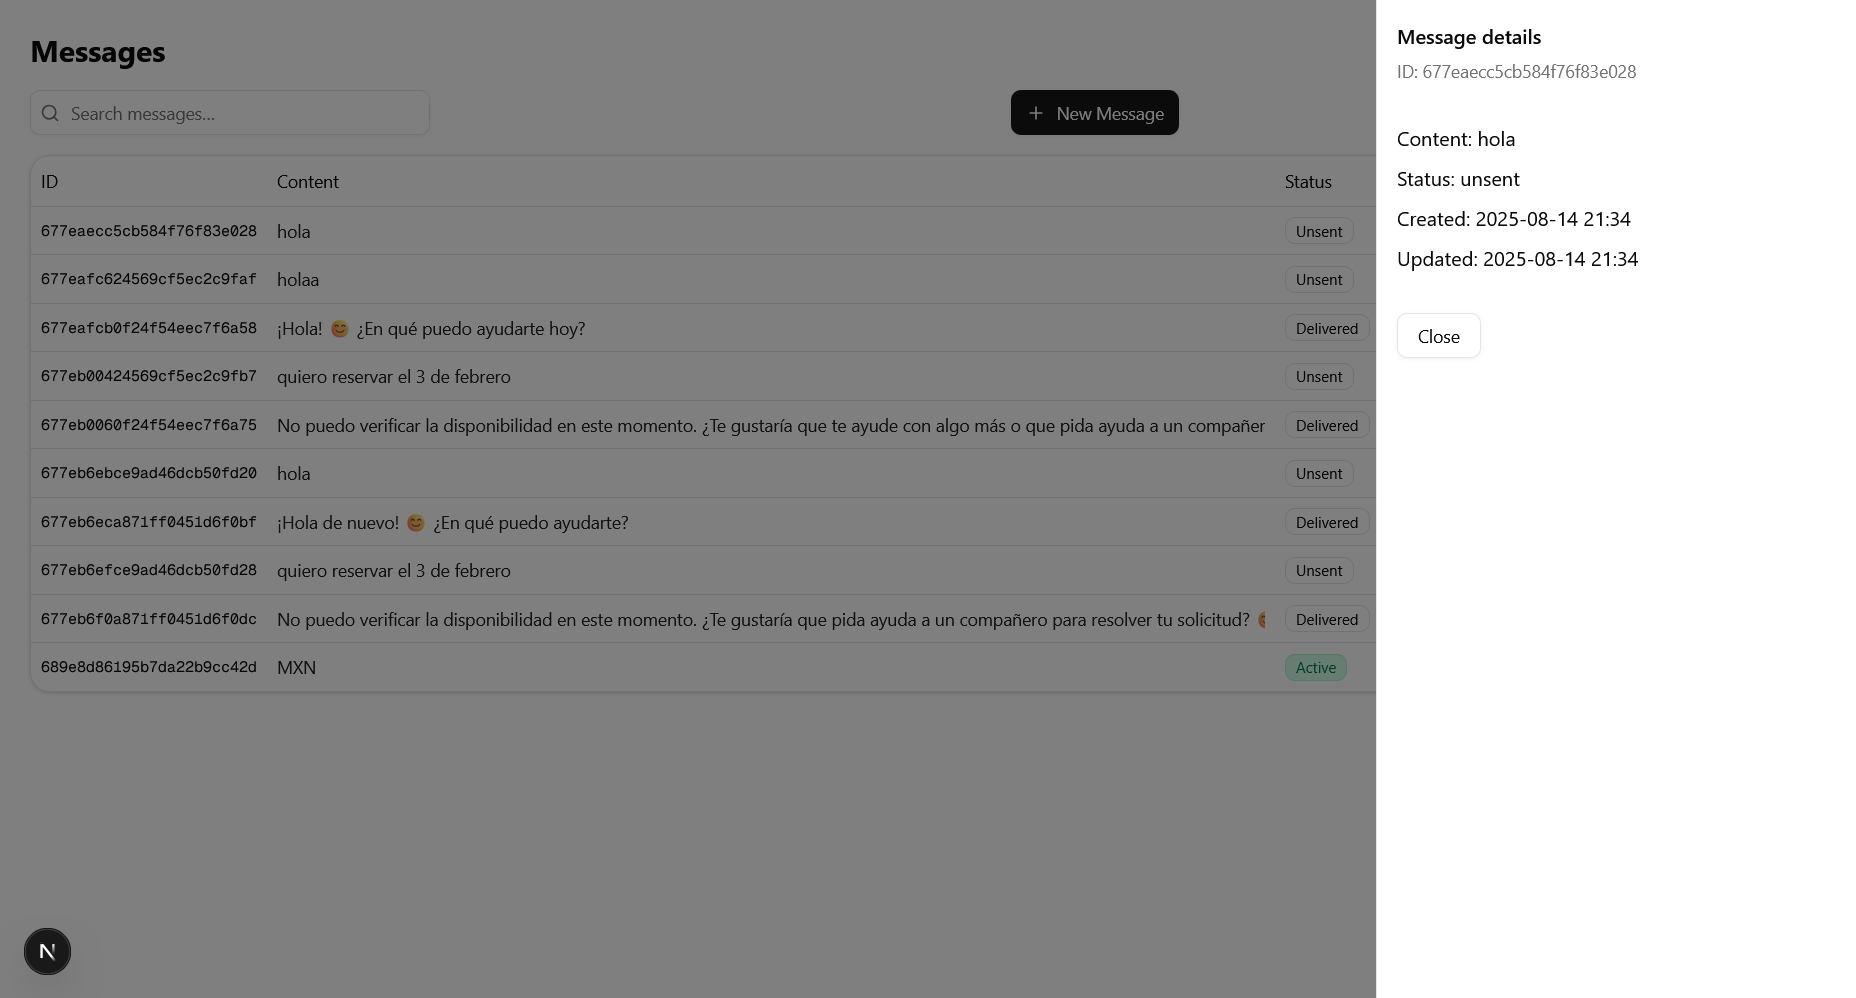
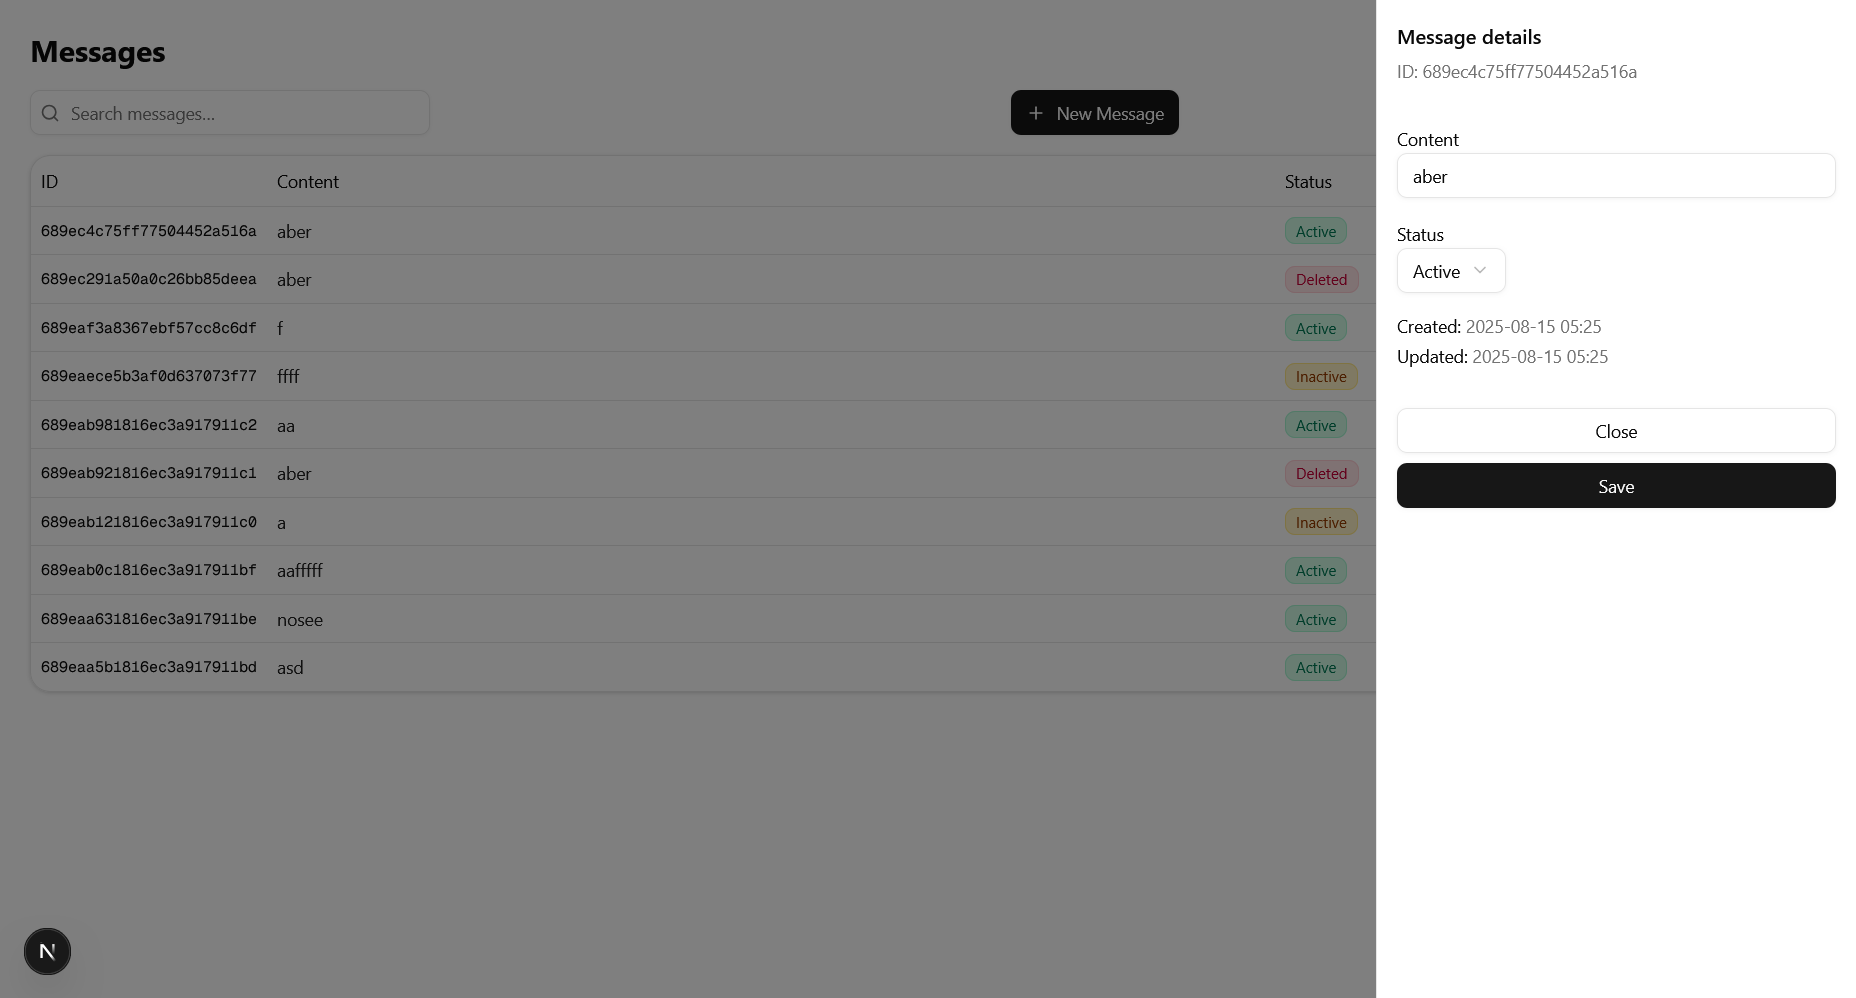
feat: update message drawer

diff --git a/frontend/src/components/messages-table.tsx b/frontend/src/components/messages-table.tsx
@@ -17,9 +17,10 @@ import {
   DrawerTitle
 } from "@/components/ui/drawer";
 import { Input } from "@/components/ui/input";
+import { Select, SelectContent, SelectItem, SelectTrigger, SelectValue } from "@/components/ui/select";
 import { Table, TableBody, TableCell, TableHead, TableHeader, TableRow } from "@/components/ui/table";
-import { createMessage, getMessage } from "@/lib/api";
-import { useQuery, useQueryClient } from "@tanstack/react-query";
+import { createMessage, getMessage, updateMessage } from "@/lib/api";
+import { useMutation, useQuery, useQueryClient } from "@tanstack/react-query";
 import { Loader2, Plus } from "lucide-react";
 
 export type Message = {
@@ -63,9 +64,37 @@ export function MessagesTable({ data, pageSize = 10, onRowClick, onCreate }: Pro
   const [openDetails, setOpenDetails] = useState(false);
   const [openCreate, setOpenCreate] = useState(false);
   const [selected, setSelected] = useState<Message | null>(null);
-  const [content, setContent] = useState("");
-  const [submitting, setSubmitting] = useState(false);
+  const [newContent, setNewContent] = useState("");  const [submitting, setSubmitting] = useState(false);
+  const [editContent, setEditContent] = useState("");
+  const [editStatus, setEditStatus] = useState<string>("active");
 
+
+  // When you open a row, seed editContent
+  function openDetailsFor(m: Message) {
+    setSelected(m);
+    setEditContent(m.content);
+    setOpenDetails(true);
+    onRowClick?.(m);
+  }
+
+  const createMut = useMutation({
+    mutationFn: createMessage,
+    onSuccess: () => {
+      queryClient.invalidateQueries({ queryKey: ["messages"] });
+      setOpenCreate(false);
+      setNewContent("");
+    },
+  });
+
+  const updateMut = useMutation({
+    mutationFn: ({ id, content, status }: { id: string; content: string; status: string }) =>
+      updateMessage({ id, content, status }),
+    onSuccess: () => {
+      queryClient.invalidateQueries({ queryKey: ["messages"] });
+      queryClient.invalidateQueries({ queryKey: ["message", selected?._id] });
+      setOpenDetails(false);
+    },
+  });
 
   const filtered = useMemo(() => {
     const t = q.trim().toLowerCase();
@@ -77,6 +106,13 @@ export function MessagesTable({ data, pageSize = 10, onRowClick, onCreate }: Pro
     );
   }, [q, data]);
 
+  React.useEffect(() => {
+  if (selected) {
+    setEditContent(selected.content);
+    setEditStatus(selected.status);
+  }
+}, [selected]);
+
   const { data: fresh, isFetching } = useQuery({
     queryKey: ["message", selected?._id],
     queryFn: () => getMessage(selected!._id),
@@ -84,7 +120,7 @@ export function MessagesTable({ data, pageSize = 10, onRowClick, onCreate }: Pro
     staleTime: 10_000,
   });
 
-  const view = fresh ?? selected;
+  const view = fresh && fresh._id === selected?._id ? fresh : selected;
 
 
   const total = filtered.length;
@@ -101,11 +137,11 @@ export function MessagesTable({ data, pageSize = 10, onRowClick, onCreate }: Pro
   }, [openCreate]);
 
   async function submitNew() {
-    if (!content.trim()) return;
+    if (!newContent.trim()) return;
     setSubmitting(true);
     try {
-      await createMessage({content: content.trim()});
-      setContent("");
+      await createMessage({content: newContent.trim()});
+      setNewContent("");
       setOpenCreate(false);
       // Refresh main table data
       queryClient.invalidateQueries({ queryKey: ["messages"] });
@@ -153,10 +189,7 @@ export function MessagesTable({ data, pageSize = 10, onRowClick, onCreate }: Pro
               <TableRow
                 key={m._id}
                 className={onRowClick ? "cursor-pointer hover:bg-accent/40" : ""}
-                onClick={(e) => {
-                  if ((e.target as HTMLElement).closest("button,input,a,[role='button']")) return;
-                  setSelected(m); setOpenDetails(true); onRowClick?.(m);
-                }}
+                onClick={() => openDetailsFor(m)}
               >
                 <TableCell className="font-mono text-xs">{m._id}</TableCell>
                 <TableCell className="max-w-[520px]">
@@ -186,21 +219,57 @@ export function MessagesTable({ data, pageSize = 10, onRowClick, onCreate }: Pro
               {view ? `ID: ${view._id}` : null}
             </DrawerDescription>
           </DrawerHeader>
-          <div className="p-4 space-y-2">
-            {isFetching && <p className="text-sm text-muted-foreground">Loading latest…</p>}
-            {view && (
-              <>
-                <p><span className="font-medium">Content:</span> {view.content}</p>
-                <p><span className="font-medium">Status:</span> {view.status}</p>
-                <p><span className="font-medium">Created:</span> {fmt(view.created_at)}</p>
-                <p><span className="font-medium">Updated:</span> {fmt(view.updated_at)}</p>
-              </>
+
+          <div className="p-4 space-y-4">
+            <div className="space-y-2">
+              <label className="text-sm font-medium">Content</label>
+              <Input
+                value={editContent}
+                onChange={(e) => setEditContent(e.target.value)}
+                placeholder="Message content"
+              />
+            </div>
+
+            <div className="space-y-2">
+              <label className="text-sm font-medium">Status</label>
+              <Select value={editStatus} onValueChange={setEditStatus}>
+                <SelectTrigger>
+                  <SelectValue placeholder="Select status" />
+                </SelectTrigger>
+                <SelectContent>
+                  <SelectItem value="active">Active</SelectItem>
+                  <SelectItem value="inactive">Inactive</SelectItem>
+                  <SelectItem value="deleted">Deleted</SelectItem>
+                </SelectContent>
+              </Select>
+            </div>
+            {/* Read-only fields */}
+            {selected && (
+              <div className="space-y-1 text-sm text-muted-foreground">
+                <div><span className="font-medium text-foreground">Created:</span> {fmt(selected.created_at)}</div>
+                <div><span className="font-medium text-foreground">Updated:</span> {fmt(selected.updated_at)}</div>
+              </div>
             )}
           </div>
-          <div className="p-4">
+          <div className="p-4 flex flex-col gap-2">
             <DrawerClose asChild>
-              <Button variant="outline">Close</Button>
+              <Button variant="outline" className="w-full">
+                Close
+              </Button>
             </DrawerClose>
+              <Button
+                onClick={() =>
+                  updateMut.mutate({
+                    id: selected!._id,
+                    content: editContent,
+                    status: editStatus as Message["status"],
+                  })
+                }
+                disabled={updateMut.isPending || !editContent.trim()}
+                className="w-full"
+              >
+                {updateMut.isPending ? <Loader2 className="h-4 w-4 animate-spin" /> : "Save"}
+              </Button>
           </div>
         </DrawerContent>
       </Drawer>
@@ -217,15 +286,23 @@ export function MessagesTable({ data, pageSize = 10, onRowClick, onCreate }: Pro
               <Input
                 ref={inputRef}
                 placeholder="Type your message…"
-                value={content}
-                onChange={(e) => setContent(e.target.value)}
-                onKeyDown={(e) => { if (e.key === "Enter") submitNew(); }}
+                value={newContent}
+                onChange={(e) => setNewContent(e.target.value)}
+                onKeyDown={(e) => {
+                  if (e.key === "Enter" && newContent.trim()) {
+                    createMut.mutate({ content: newContent.trim() });
+                  }
+                }}
               />
             </label>
             <div className="flex justify-end gap-2 pt-2">
               <Button variant="outline" onClick={() => setOpenCreate(false)}>Cancel</Button>
-              <Button onClick={submitNew} disabled={submitting || !content.trim()} className="gap-2">
-                {submitting && <Loader2 className="h-4 w-4 animate-spin" />}
+              <Button
+                onClick={() => createMut.mutate({ content: newContent.trim() })}
+                disabled={createMut.isPending || !newContent.trim()}
+                className="gap-2"
+              >
+                {createMut.isPending && <Loader2 className="h-4 w-4 animate-spin" />}
                 Create
               </Button>
             </div>

diff --git a/frontend/src/lib/api.ts b/frontend/src/lib/api.ts
@@ -1,5 +1,13 @@
 const API_BASE = process.env.NEXT_PUBLIC_API_URL || "http://localhost:8000";
 
+export type Message = {
+  _id: string;
+  content: string;
+  status: "active" | "inactive" | "deleted";
+  created_at: string;
+  updated_at: string;
+};
+
 export async function listMessages() {
   const r = await fetch(`${API_BASE}/messages`, { cache: "no-store" });
   if (!r.ok) throw new Error("Failed to load messages");
@@ -16,4 +24,16 @@ export async function getMessage(id: string) {
   const r = await fetch(`/api/messages/${id}`, { cache: "no-store" });
   if (!r.ok) throw new Error(`Failed to fetch message ${id}`);
   return r.json();
+}
+
+export async function updateMessage({ id, content, status }: { id: string; content: string; status: string }) {
+  const res = await fetch(`/api/messages/${id}`, {
+    method: "put",
+    headers: { "Content-Type": "application/json" },
+    body: JSON.stringify({ content, status }),
+  });
+  if (!res.ok) {
+    throw new Error("Failed to update message");
+  }
+  return res.json();
 }

diff --git a/frontend/src/app/page.tsx b/frontend/src/app/page.tsx
@@ -1,7 +1,7 @@
 "use client";
 
 
-import { MessagesTable } from "@/components/messages-table.tsx";
+import { MessagesTable } from "@/components/messages-table";
 import { listMessages } from "@/lib/api";
 import { useQuery } from "@tanstack/react-query";
 

diff --git a/backend/tests/test_edit_message.py b/backend/tests/test_edit_message.py
@@ -1,0 +1,46 @@
+from datetime import datetime, timezone
+from unittest.mock import patch
+
+import pytest
+from fastapi.testclient import TestClient
+
+from backend.server.app import app
+
+client = TestClient(app)
+
+
+def test_edit_message():
+    from backend.server import routes
+
+    fake = {
+            "id": "64e3f1e25a0f0a0012abc123",
+            "content": "random prompt",
+            "status": "active",
+            "createdAt": datetime(2025, 8, 14, 15, 42, 30, tzinfo=timezone.utc),
+            "updatedAt": datetime(2025, 8, 14, 15, 42, 30, tzinfo=timezone.utc),
+        }
+
+    async def fake_retrieve_message(message_id, content):
+        fake["content"] = content
+        return fake
+
+    with patch.object(routes, "update_message", new=fake_retrieve_message):
+        r = client.put("/messages/64e3f1e25a0f0a0012abc123", json={"content": "updated prompt"})
+        assert r.status_code == 200
+        data = r.json()
+        assert isinstance(data, dict)
+        assert data["content"] == "updated prompt"
+        assert data["status"] == "active"
+
+
+def test_edit_message_raises_500():
+    from backend.server import routes
+
+    async def fake_retrieve_message_error(message_id, content):
+        raise Exception("Database error")
+
+    with patch.object(routes, "get_message", new=fake_retrieve_message_error):
+        with pytest.raises(Exception) as exc_info:
+            client.put("/messages/64e3f1e25a0f0a0012abc123", json={"content": "updated prompt"})
+
+            assert "Database error" in str(exc_info.value)

diff --git a/backend/server/database.py b/backend/server/database.py
@@ -42,7 +42,7 @@ async def get_message(message_id: str) -> Message:
     return message
 
 
-async def update_message(message_id: str, content: str) -> Message:
+async def update_message(message_id: str, content: str | None = None, status: str | None = None) -> Message:
     msg = await Message.get(message_id)
     if not msg:
         raise HTTPException(
@@ -51,8 +51,12 @@ async def update_message(message_id: str, content: str) -> Message:
         )
 
     try:
-        msg.content = content
-        await msg.save()  # beanie Replace flow
+        if content is not None:
+            msg.content = content
+        if status is not None:
+            msg.status = status
+
+        await msg.save()  # Only saves if something changed
         return msg
     except Exception as e:
         raise HTTPException(

diff --git a/backend/server/routes.py b/backend/server/routes.py
@@ -31,4 +31,4 @@ async def show_message(message_id: str):
 
 @router.put("/{message_id}", response_model=Any, status_code=status.HTTP_200_OK)
 async def edit_message(message_id: str, message: MessageUpdate):
-    return await update_message(message_id, message.content)
+    return await update_message(message_id, message.content, message.status)

diff --git a/backend/server/requests.py b/backend/server/requests.py
@@ -1,3 +1,5 @@
+from typing import Optional
+
 from pydantic import BaseModel
 
 
@@ -6,4 +8,5 @@ class MessageCreate(BaseModel):
 
 
 class MessageUpdate(BaseModel):
-    content: str
+    content: Optional[str] = None
+    status: Optional[str] = None
